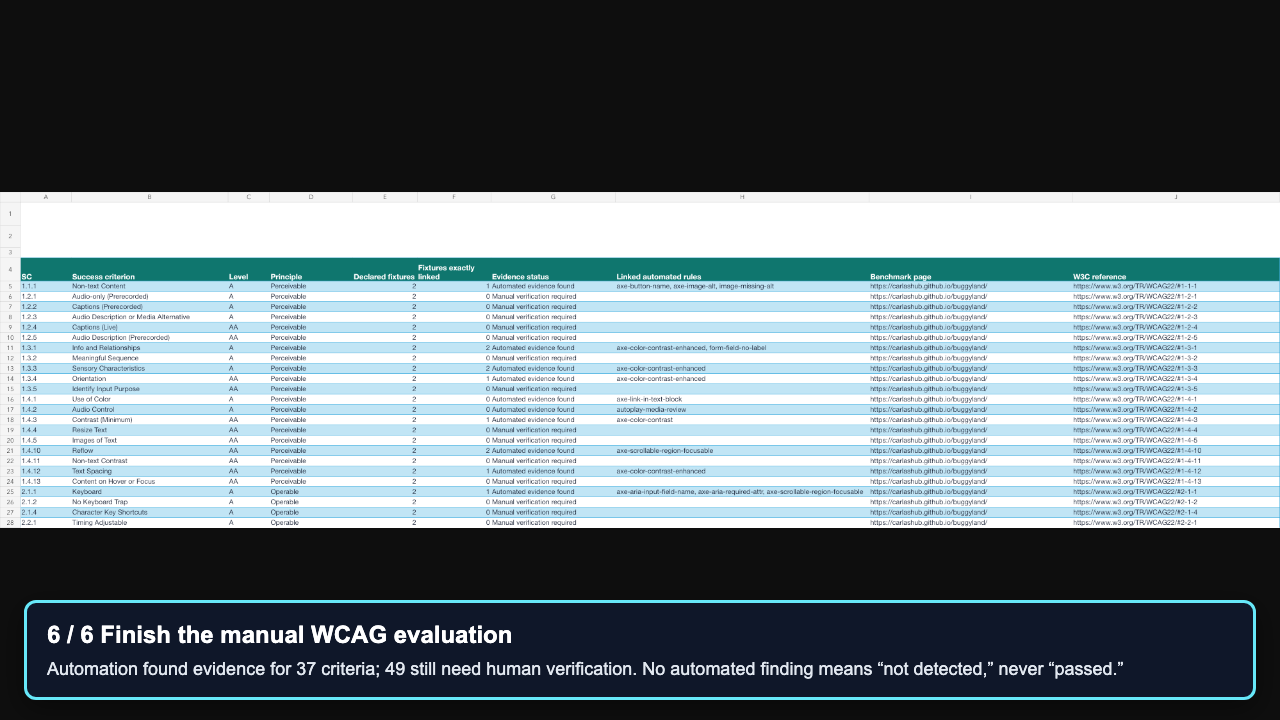
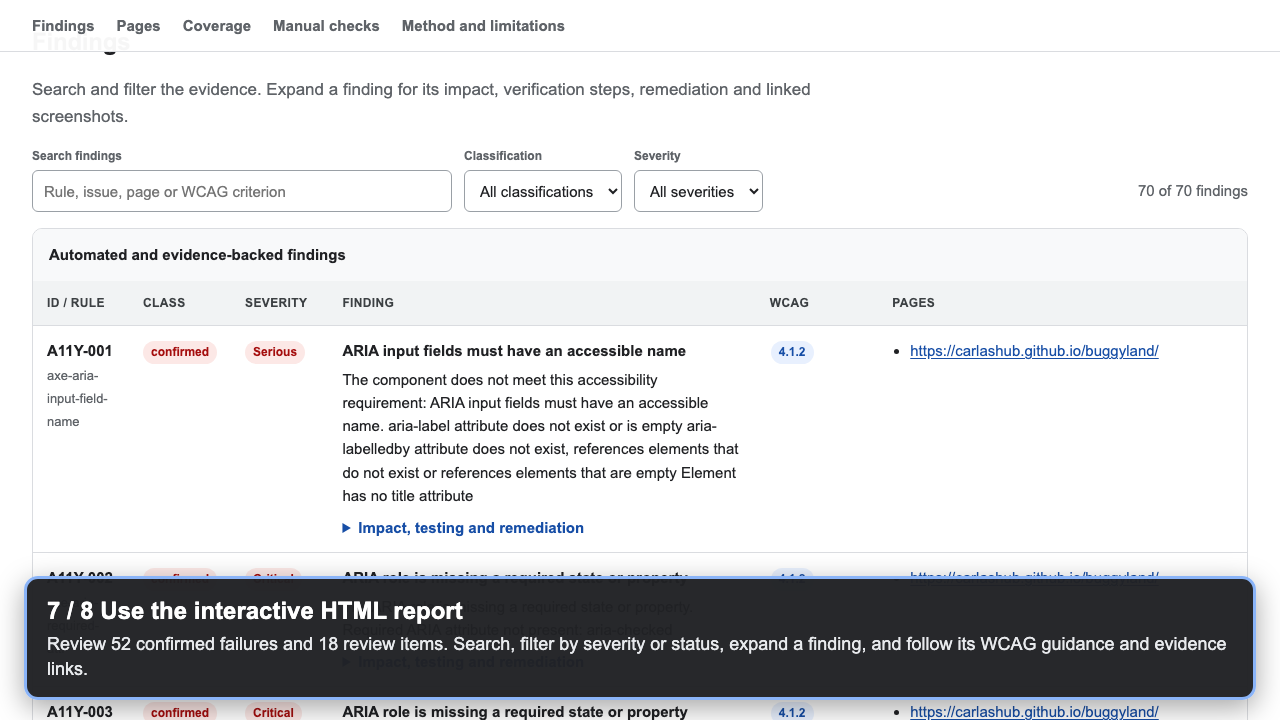
docs: publish complete BuggyLand walkthrough

diff --git a/docs/buggyland-github-action-tutorial-transcript.md b/docs/buggyland-github-action-tutorial-transcript.md
@@ -1,29 +1,37 @@
 # BuggyLand GitHub Action tutorial transcript
 
-This silent, captioned walkthrough was recorded on 9 September 2026. It documents the successful public GitHub Actions run at <https://github.com/CarlasHub/buggyland/actions/runs/34384488369>.
+This silent, captioned walkthrough was recorded on 9 September 2026. It documents the successful public GitHub Actions run at <https://github.com/CarlasHub/buggyland/actions/runs/34391886799>.
 
-## 00:00 — Start with the free CarlasHub GitHub Action
+## 00:00 — Choose the free CarlasHub GitHub Action
 
-The repository contains the reusable action, usage example, documentation, and source code.
+Open the repository and copy the workflow example. The Action audits public URLs and produces HTML, XLSX, JSON, screenshots, and a portable ZIP bundle.
 
-## 00:08 — Configure the public audit
+## 00:08 — Add the workflow to your project
 
-The BuggyLand workflow audits both published pages at WCAG 2.2 Level AAA and retains downloadable evidence for 90 days.
+Create `.github/workflows/accessibility-audit.yml`, set the public URL or URLs, choose WCAG 2.2 and Level AA or AAA, then commit the file. The demonstrated BuggyLand workflow audits both published pages at Level AAA.
 
-## 00:18 — Open the successful GitHub Actions run
+## 00:20 — Run the audit from GitHub
 
-The public run completed against the published site with zero execution errors. Its artifact contains the original Action workbook and `audit-results.json`.
+Open **Actions → Buggyland WCAG audit → Run workflow**, choose the `main` branch, and press **Run workflow**. A push also starts the workflow when `push` is configured as a trigger.
 
-## 00:31 — Inspect the intentional failures
+## 00:29 — Watch the run and open its job
 
-BuggyLand is a benchmark. Every card declares a WCAG success criterion and two intentional failure examples. The Action evaluates the rendered pages, rather than treating those declarations as test results.
+Public run `34391886799` completed against both published pages with zero execution errors. Select its `accessibility-audit` job to inspect the audited URLs and execution log.
 
-## 00:47 — Read the enhanced benchmark report
+## 00:40 — Download the results artifact
 
-The Action returned 70 consolidated results: 52 confirmed automated failures and 18 review items. This differs from the 172 benchmark fixtures because repeated selectors and viewports are consolidated, and many WCAG requirements require human judgment.
+At the bottom of the completed run, find **Artifacts** and download `buggyland-accessibility-audit`. Unzip it on your computer. GitHub retains this workflow's artifact for 90 days.
 
-## 00:55 — Finish the manual WCAG evaluation
+## 00:49 — Find every result in the downloaded folder
+
+Open `Accessibility_Audit_Report.html` first. The folder also contains `Accessibility_Audit_Report.xlsx`, `audit-results.json`, screenshots, and `accessibility-audit-results.zip`.
+
+## 00:57 — Use the interactive HTML report
+
+The report presents 70 consolidated results: 52 confirmed automated failures and 18 review items. Search, filter by severity or status, expand a finding, and follow its WCAG guidance and evidence links.
+
+## 01:09 — Open the validated workbook for triage
 
 Automation produced evidence for 37 of the 86 active WCAG 2.2 success criteria. The other 49 remain explicitly marked for human verification. An absent automated result never means that a criterion passed.
 
-The enhanced workbook contains the executive summary, complete criteria matrix, 172-fixture inventory, automated findings, test coverage, manual plan, and run metadata. It is benchmark evidence, not a WCAG conformance claim.
+The enhanced workbook opens in Excel and LibreOffice and contains the executive summary, complete criteria matrix, 172-fixture inventory, automated findings, test coverage, manual plan, and run metadata. It is benchmark evidence, not a WCAG conformance claim.

diff --git a/docs/buggyland-benchmark.md b/docs/buggyland-benchmark.md
@@ -4,8 +4,8 @@ This page records the public end-to-end test of the CarlasHub Accessibility Audi
 
 ## Verified public run
 
-- **GitHub Actions run:** [BuggyLand WCAG audit #3](https://github.com/CarlasHub/buggyland/actions/runs/34384488369)
-- **Action version tested:** commit [`e633f49`](https://github.com/CarlasHub/accessibility-audit-plugin/commit/e633f4910616fb9ce1ddf4698686240662d0aa93)
+- **GitHub Actions run:** [BuggyLand WCAG audit #5](https://github.com/CarlasHub/buggyland/actions/runs/34391886799)
+- **Action version tested:** commit [`c5a4bfa`](https://github.com/CarlasHub/accessibility-audit-plugin/commit/c5a4bfa50bfa18dcec2a83e5cbe47335901c7481)
 - **Scope:** both published BuggyLand pages
 - **Requested standard:** WCAG 2.2 Levels A, AA, and AAA
 - **Execution:** 2 pages audited, 0 page errors
@@ -13,12 +13,14 @@ This page records the public end-to-end test of the CarlasHub Accessibility Audi
 - **Benchmark inventory:** 172 declared failure fixtures across all 86 active WCAG 2.2 success criteria
 - **Criterion reach:** automated evidence mapped to 37 criteria; 49 criteria remain explicitly assigned to human verification
 
-The workflow keeps its GitHub Actions artifact for 90 days. The v1.1.0 release keeps permanent copies:
+The workflow keeps its GitHub Actions artifact for 90 days. The v1.2.0 release keeps permanent copies:
 
-- [Enhanced WCAG benchmark workbook](https://github.com/CarlasHub/accessibility-audit-plugin/releases/download/v1.1.0/BuggyLand_WCAG_2.2_Benchmark_Report.xlsx)
-- [Original Action workbook](https://github.com/CarlasHub/accessibility-audit-plugin/releases/download/v1.1.0/BuggyLand_GitHub_Action_Original_Report.xlsx)
-- [Raw Action JSON](https://github.com/CarlasHub/accessibility-audit-plugin/releases/download/v1.1.0/buggyland-audit-results.json)
-- [Captioned tutorial video](https://github.com/CarlasHub/accessibility-audit-plugin/releases/download/v1.1.0/BuggyLand_GitHub_Action_Tutorial.mp4)
+- [Interactive HTML report](https://github.com/CarlasHub/accessibility-audit-plugin/releases/download/v1.2.0/Accessibility_Audit_Report.html)
+- [Enhanced WCAG benchmark workbook](https://github.com/CarlasHub/accessibility-audit-plugin/releases/download/v1.2.0/BuggyLand_WCAG_2.2_Benchmark_Report.xlsx)
+- [Original Action workbook](https://github.com/CarlasHub/accessibility-audit-plugin/releases/download/v1.2.0/Accessibility_Audit_Report.xlsx)
+- [Raw Action JSON](https://github.com/CarlasHub/accessibility-audit-plugin/releases/download/v1.2.0/audit-results.json)
+- [Portable report bundle](https://github.com/CarlasHub/accessibility-audit-plugin/releases/download/v1.2.0/accessibility-audit-results.zip)
+- [Captioned tutorial video](https://github.com/CarlasHub/accessibility-audit-plugin/releases/download/v1.2.0/BuggyLand_GitHub_Action_Tutorial.mp4)
 
 ## Why 172 fixtures do not produce 172 findings
 
@@ -53,7 +55,7 @@ Copy [BuggyLand's workflow](https://github.com/CarlasHub/buggyland/blob/main/.gi
 
 ```text
 https://carlashub.github.io/buggyland/
-https://carlashub.github.io/buggyland/aaa.html
+https://carlashub.github.io/buggyland/page2.html
 ```
 
 Use the [WCAG 2.2 standard](https://www.w3.org/TR/WCAG22/) and [How to Meet WCAG 2.2](https://www.w3.org/WAI/WCAG22/quickref/) as the normative and implementation references while completing the manual plan.

diff --git a/README.md b/README.md
@@ -18,7 +18,7 @@ You do not need to know WCAG terminology to run the plugin. Start with the workf
 
 [![Captioned walkthrough of the CarlasHub Action auditing BuggyLand](https://raw.githubusercontent.com/CarlasHub/accessibility-audit-plugin/main/.github/media/buggyland-github-action-tutorial-poster.png)](https://github.com/CarlasHub/accessibility-audit-plugin/releases/download/v1.2.0/BuggyLand_GitHub_Action_Tutorial.mp4)
 
-[Watch or download the complete captioned walkthrough](https://github.com/CarlasHub/accessibility-audit-plugin/releases/download/v1.2.0/BuggyLand_GitHub_Action_Tutorial.mp4), inspect the [successful public run](https://github.com/CarlasHub/buggyland/actions/runs/34384488369), or read the [video transcript](docs/buggyland-github-action-tutorial-transcript.md). It starts with creating and running the workflow, then shows exactly where to download and open the results.
+[Watch or download the complete captioned walkthrough](https://github.com/CarlasHub/accessibility-audit-plugin/releases/download/v1.2.0/BuggyLand_GitHub_Action_Tutorial.mp4), inspect the [successful public run](https://github.com/CarlasHub/buggyland/actions/runs/34391886799), or read the [video transcript](docs/buggyland-github-action-tutorial-transcript.md). It starts with adding and running the workflow, then shows exactly where to download and open the HTML and Excel results.
 
 The two [BuggyLand](https://carlashub.github.io/buggyland/) pages declare 172 intentional failure fixtures across all 86 active WCAG 2.2 success criteria. The Action produced 70 consolidated machine results: 52 confirmed failures and 18 items for review, with zero execution errors. Those numbers should not match: automated rules inspect rendered behaviour, consolidate repeated evidence, and cannot decide every WCAG requirement. The [benchmark evidence guide](docs/buggyland-benchmark.md) provides the complete criteria matrix, fixture inventory, downloadable enhanced workbook, raw JSON, and manual verification plan.
 

diff --git a/docs/release-notes-v1.2.0.md b/docs/release-notes-v1.2.0.md
@@ -1,0 +1,18 @@
+# v1.2.0 — Professional reports and complete tutorial
+
+This release replaces the earlier BuggyLand deliverables with a clearer, professional report set and a complete beginning-to-end walkthrough.
+
+## What changed
+
+- Added a polished, self-contained HTML report with an executive summary, searchable and filterable findings, detailed remediation guidance, page inventory, coverage evidence, manual checks, and print styling.
+- Rebuilt the enhanced WCAG workbook for Excel and LibreOffice compatibility, with an executive summary, all 86 active WCAG 2.2 criteria, all 172 declared BuggyLand fixtures, 70 consolidated findings, test coverage, a manual plan, and run metadata.
+- Added a 79-second captioned tutorial that starts with the repository and workflow, shows how to run the audit, opens the completed public run, identifies the downloadable artifact, and demonstrates both report formats.
+- Added the HTML report to the Action outputs and portable ZIP bundle.
+
+## Verified demonstration
+
+The final public [BuggyLand GitHub Actions run](https://github.com/CarlasHub/buggyland/actions/runs/34391886799) audited both published pages at WCAG 2.2 Level AAA with zero execution errors. It produced 70 consolidated findings: 52 confirmed failures and 18 items requiring review.
+
+BuggyLand declares 172 intentional fixtures across the 86 active WCAG 2.2 success criteria. The Action result is deliberately not presented as 172 passes or failures: repeated evidence is consolidated, and requirements that need human judgment remain in the manual plan.
+
+See the [benchmark evidence guide](https://github.com/CarlasHub/accessibility-audit-plugin/blob/v1.2.0/docs/buggyland-benchmark.md) and [tutorial transcript](https://github.com/CarlasHub/accessibility-audit-plugin/blob/v1.2.0/docs/buggyland-github-action-tutorial-transcript.md) for context.
